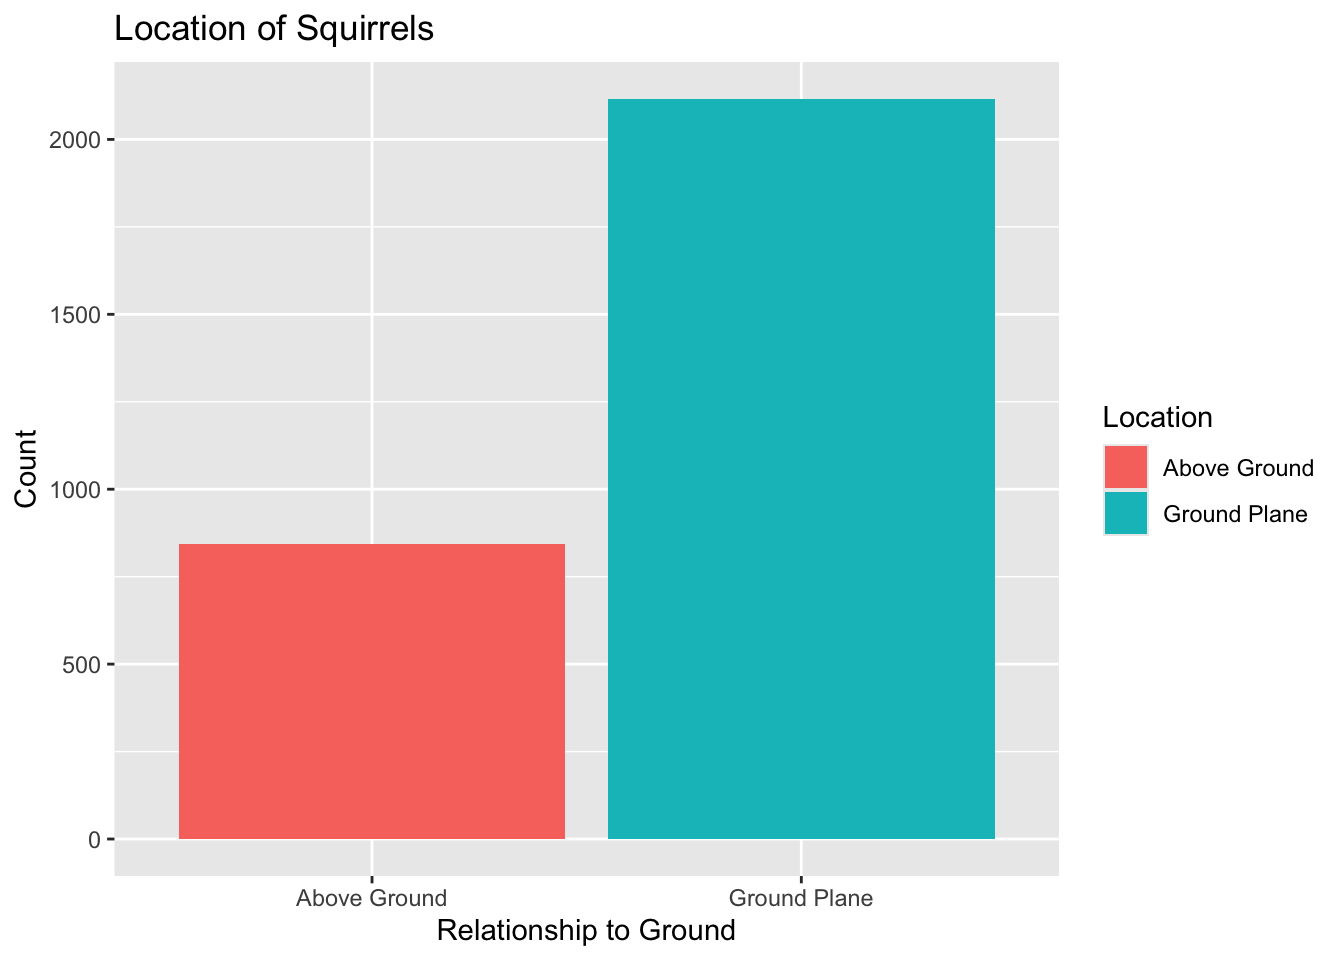
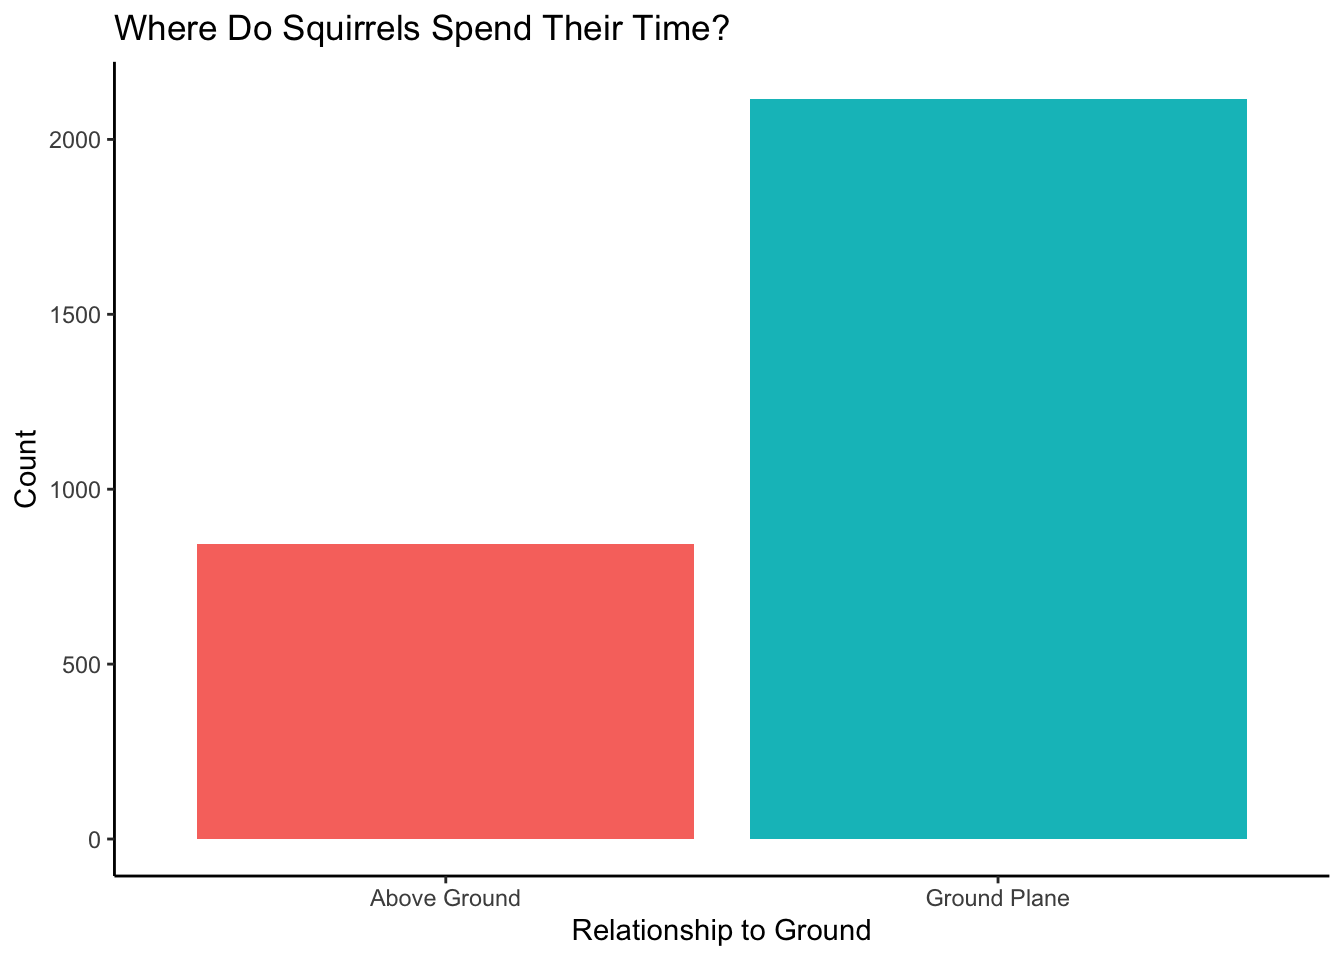
citation?

diff --git a/docs/txtanalysis.html b/docs/txtanalysis.html
@@ -8,7 +8,7 @@
 
 <meta name="author" content="Fox Kloske">
 <meta name="dcterms.date" content="2025-10-08">
-<meta name="description" content="Using str() functions and regular expressions to find out what Central Park squirrels were doing in 2018.">
+<meta name="description" content="Using str() functions and regular expressions to discover what Central Park squirrels were doing in Junuary 2018.">
 
 <title>Central Park Squirrel Census – Fox Kloske</title>
 <style>
@@ -167,7 +167,7 @@ pre > code.sourceCode > span > a:first-child::before { text-decoration: underlin
 </div>
 <div>
   <div class="description">
-    Using str() functions and regular expressions to find out what Central Park squirrels were doing in 2018.
+    Using str() functions and regular expressions to discover what Central Park squirrels were doing in Junuary 2018.
   </div>
 </div>
 <div class="quarto-title-meta column-page">
@@ -195,16 +195,20 @@ pre > code.sourceCode > span > a:first-child::before { text-decoration: underlin
 <span id="cb1-5"><a href="#cb1-5" aria-hidden="true" tabindex="-1"></a></span>
 <span id="cb1-6"><a href="#cb1-6" aria-hidden="true" tabindex="-1"></a>Squirrel1 <span class="ot">&lt;-</span> SquirrelCensus <span class="sc">|&gt;</span></span>
 <span id="cb1-7"><a href="#cb1-7" aria-hidden="true" tabindex="-1"></a>  <span class="fu">group_by</span>(Location) <span class="sc">|&gt;</span></span>
-<span id="cb1-8"><a href="#cb1-8" aria-hidden="true" tabindex="-1"></a>  <span class="co">#na.rm not recognizing empty values, so instead tested if any characters are in the value</span></span>
+<span id="cb1-8"><a href="#cb1-8" aria-hidden="true" tabindex="-1"></a>  <span class="co">#na.rm not recognizing empty values, so instead tested if any characters are in the value.</span></span>
 <span id="cb1-9"><a href="#cb1-9" aria-hidden="true" tabindex="-1"></a>  <span class="fu">filter</span>(<span class="fu">str_detect</span>(Location, <span class="st">"."</span>))</span>
 <span id="cb1-10"><a href="#cb1-10" aria-hidden="true" tabindex="-1"></a></span>
 <span id="cb1-11"><a href="#cb1-11" aria-hidden="true" tabindex="-1"></a><span class="fu">ggplot</span>(Squirrel1, <span class="fu">aes</span>(<span class="at">x =</span> Location, <span class="at">fill =</span> Location)) <span class="sc">+</span></span>
 <span id="cb1-12"><a href="#cb1-12" aria-hidden="true" tabindex="-1"></a>  <span class="fu">geom_bar</span>(<span class="at">na.rm =</span> <span class="cn">TRUE</span>) <span class="sc">+</span></span>
 <span id="cb1-13"><a href="#cb1-13" aria-hidden="true" tabindex="-1"></a>    <span class="fu">labs</span>(</span>
-<span id="cb1-14"><a href="#cb1-14" aria-hidden="true" tabindex="-1"></a>      <span class="at">title =</span> <span class="st">"Location of Squirrels"</span>,</span>
+<span id="cb1-14"><a href="#cb1-14" aria-hidden="true" tabindex="-1"></a>      <span class="at">title =</span> <span class="st">"Where Do Squirrels Spend Their Time?"</span>,</span>
 <span id="cb1-15"><a href="#cb1-15" aria-hidden="true" tabindex="-1"></a>      <span class="at">x =</span> <span class="st">"Relationship to Ground"</span>,</span>
 <span id="cb1-16"><a href="#cb1-16" aria-hidden="true" tabindex="-1"></a>      <span class="at">y =</span> <span class="st">"Count"</span></span>
-<span id="cb1-17"><a href="#cb1-17" aria-hidden="true" tabindex="-1"></a>  )</span></code><button title="Copy to Clipboard" class="code-copy-button"><i class="bi"></i></button></pre></div>
+<span id="cb1-17"><a href="#cb1-17" aria-hidden="true" tabindex="-1"></a>  ) <span class="sc">+</span></span>
+<span id="cb1-18"><a href="#cb1-18" aria-hidden="true" tabindex="-1"></a>  <span class="fu">theme_classic</span>() <span class="sc">+</span></span>
+<span id="cb1-19"><a href="#cb1-19" aria-hidden="true" tabindex="-1"></a></span>
+<span id="cb1-20"><a href="#cb1-20" aria-hidden="true" tabindex="-1"></a><span class="co">#Centered format</span></span>
+<span id="cb1-21"><a href="#cb1-21" aria-hidden="true" tabindex="-1"></a><span class="fu">theme</span>(<span class="at">legend.position =</span> <span class="st">"none"</span>)</span></code><button title="Copy to Clipboard" class="code-copy-button"><i class="bi"></i></button></pre></div>
 </details>
 <div class="cell-output-display">
 <div>
@@ -214,7 +218,7 @@ pre > code.sourceCode > span > a:first-child::before { text-decoration: underlin
 </div>
 </div>
 </div>
-<p>The data set gives some detail about where these acorn-lovers spend their days, but we can do better!</p>
+<p>Most squirrels are spotted on the ground. The built-in columns gives some detail about where these acorn-lovers spend their days, but we can do better!</p>
 <div class="cell">
 <details class="code-fold">
 <summary>Code</summary>
@@ -231,11 +235,12 @@ pre > code.sourceCode > span > a:first-child::before { text-decoration: underlin
 <span id="cb2-11"><a href="#cb2-11" aria-hidden="true" tabindex="-1"></a><span class="fu">ggplot</span>(Squirrel2, <span class="fu">aes</span>(<span class="at">x =</span> Activity, <span class="at">fill =</span> tree_status)) <span class="sc">+</span></span>
 <span id="cb2-12"><a href="#cb2-12" aria-hidden="true" tabindex="-1"></a>  <span class="fu">geom_bar</span>() <span class="sc">+</span></span>
 <span id="cb2-13"><a href="#cb2-13" aria-hidden="true" tabindex="-1"></a>  <span class="fu">labs</span>(</span>
-<span id="cb2-14"><a href="#cb2-14" aria-hidden="true" tabindex="-1"></a>    <span class="at">title =</span> <span class="st">"Daily Squirrel-tivities"</span>,</span>
+<span id="cb2-14"><a href="#cb2-14" aria-hidden="true" tabindex="-1"></a>    <span class="at">title =</span> <span class="st">"What Are Squirrels Doing All Day?"</span>,</span>
 <span id="cb2-15"><a href="#cb2-15" aria-hidden="true" tabindex="-1"></a>    <span class="at">x =</span> <span class="st">"Activity"</span>,</span>
 <span id="cb2-16"><a href="#cb2-16" aria-hidden="true" tabindex="-1"></a>    <span class="at">y =</span> <span class="st">"Count"</span>,</span>
 <span id="cb2-17"><a href="#cb2-17" aria-hidden="true" tabindex="-1"></a>    <span class="at">fill =</span> <span class="st">"On a tree?"</span></span>
-<span id="cb2-18"><a href="#cb2-18" aria-hidden="true" tabindex="-1"></a>  )</span></code><button title="Copy to Clipboard" class="code-copy-button"><i class="bi"></i></button></pre></div>
+<span id="cb2-18"><a href="#cb2-18" aria-hidden="true" tabindex="-1"></a>  ) <span class="sc">+</span></span>
+<span id="cb2-19"><a href="#cb2-19" aria-hidden="true" tabindex="-1"></a>  <span class="fu">theme_classic</span>()</span></code><button title="Copy to Clipboard" class="code-copy-button"><i class="bi"></i></button></pre></div>
 </details>
 <div class="cell-output-display">
 <div>
@@ -244,11 +249,61 @@ pre > code.sourceCode > span > a:first-child::before { text-decoration: underlin
 </figure>
 </div>
 </div>
+<details class="code-fold">
+<summary>Code</summary>
+<div class="sourceCode cell-code" id="cb3"><pre class="sourceCode r code-with-copy"><code class="sourceCode r"><span id="cb3-1"><a href="#cb3-1" aria-hidden="true" tabindex="-1"></a><span class="co">#Complicated way to sneak in more str() &amp; regular expressions</span></span>
+<span id="cb3-2"><a href="#cb3-2" aria-hidden="true" tabindex="-1"></a><span class="co">#str_count() returns line by line, sum returns single value</span></span>
+<span id="cb3-3"><a href="#cb3-3" aria-hidden="true" tabindex="-1"></a><span class="co">#The word street also appears in the dataset, but want to exclude from count of tree</span></span>
+<span id="cb3-4"><a href="#cb3-4" aria-hidden="true" tabindex="-1"></a>tree_count <span class="ot">&lt;-</span> <span class="fu">sum</span>(<span class="fu">str_count</span>(<span class="fu">tolower</span>(SquirrelCensus), <span class="st">"(?&lt;=</span><span class="sc">\\</span><span class="st">s|^)tree"</span>), <span class="at">na.rm =</span> <span class="cn">TRUE</span>)</span>
+<span id="cb3-5"><a href="#cb3-5" aria-hidden="true" tabindex="-1"></a><span class="co">#Number is writen inline with `r tree_count`</span></span></code><button title="Copy to Clipboard" class="code-copy-button"><i class="bi"></i></button></pre></div>
+</details>
 </div>
-<p>Much better! Squirrels spend a tree-mendous amount of time on trees :) Only observations with specific location details are included.</p>
+<p>Much better! The data shows a mix of squirrel-tivities. But most of all, squirrels spend a <em>tree</em>-mendous amount of time on and around trees. For this graph, only observations with specific location details are included. However, there are 254 mentions of tree related shenanagins in the data set! Let’s now get to the <em>nuts</em> and bolts of who they spend their time with.</p>
+<div class="cell">
+<details class="code-fold">
+<summary>Code</summary>
+<div class="sourceCode cell-code" id="cb4"><pre class="sourceCode r code-with-copy"><code class="sourceCode r"><span id="cb4-1"><a href="#cb4-1" aria-hidden="true" tabindex="-1"></a>Squirrel3 <span class="ot">&lt;-</span> SquirrelCensus <span class="sc">|&gt;</span></span>
+<span id="cb4-2"><a href="#cb4-2" aria-hidden="true" tabindex="-1"></a>  <span class="co">#Sometimes the same dog in mentioned twice in interaction</span></span>
+<span id="cb4-3"><a href="#cb4-3" aria-hidden="true" tabindex="-1"></a>  <span class="fu">mutate</span>(<span class="at">num_dogs =</span> <span class="fu">str_count</span>(<span class="fu">tolower</span>(<span class="st">`</span><span class="at">Other Interactions</span><span class="st">`</span>), <span class="st">"(?&lt;!dog)dog"</span>),</span>
+<span id="cb4-4"><a href="#cb4-4" aria-hidden="true" tabindex="-1"></a>         <span class="at">Date =</span> <span class="fu">as.character</span>(Date),</span>
+<span id="cb4-5"><a href="#cb4-5" aria-hidden="true" tabindex="-1"></a>         <span class="at">Day =</span> <span class="fu">str_sub</span>(Date, <span class="dv">3</span>, <span class="dv">4</span>)) <span class="sc">|&gt;</span></span>
+<span id="cb4-6"><a href="#cb4-6" aria-hidden="true" tabindex="-1"></a>  <span class="fu">group_by</span>(Day)</span>
+<span id="cb4-7"><a href="#cb4-7" aria-hidden="true" tabindex="-1"></a></span>
+<span id="cb4-8"><a href="#cb4-8" aria-hidden="true" tabindex="-1"></a><span class="fu">ggplot</span>(Squirrel3, <span class="fu">aes</span>(<span class="at">x =</span> Day, <span class="at">y =</span> num_dogs)) <span class="sc">+</span></span>
+<span id="cb4-9"><a href="#cb4-9" aria-hidden="true" tabindex="-1"></a>  <span class="fu">geom_col</span>(<span class="at">fill =</span> <span class="st">"springgreen4"</span>) <span class="sc">+</span></span>
+<span id="cb4-10"><a href="#cb4-10" aria-hidden="true" tabindex="-1"></a>  <span class="fu">labs</span>(</span>
+<span id="cb4-11"><a href="#cb4-11" aria-hidden="true" tabindex="-1"></a>    <span class="at">title =</span> <span class="st">"Daily Encounters of Squirrels and Dogs"</span>,</span>
+<span id="cb4-12"><a href="#cb4-12" aria-hidden="true" tabindex="-1"></a>    <span class="at">x =</span> <span class="st">"Date"</span>,</span>
+<span id="cb4-13"><a href="#cb4-13" aria-hidden="true" tabindex="-1"></a>    <span class="at">y =</span> <span class="st">"Count"</span>,</span>
+<span id="cb4-14"><a href="#cb4-14" aria-hidden="true" tabindex="-1"></a>  ) <span class="sc">+</span></span>
+<span id="cb4-15"><a href="#cb4-15" aria-hidden="true" tabindex="-1"></a>  <span class="fu">theme_classic</span>()</span></code><button title="Copy to Clipboard" class="code-copy-button"><i class="bi"></i></button></pre></div>
+</details>
+<div class="cell-output-display">
+<div>
+<figure class="figure">
+<p><img src="txtanalysis_files/figure-html/unnamed-chunk-3-1.png" class="img-fluid figure-img" width="672"></p>
+</figure>
+</div>
+</div>
+<details class="code-fold">
+<summary>Code</summary>
+<div class="sourceCode cell-code" id="cb5"><pre class="sourceCode r code-with-copy"><code class="sourceCode r"><span id="cb5-1"><a href="#cb5-1" aria-hidden="true" tabindex="-1"></a>chase_count <span class="ot">&lt;-</span> <span class="fu">sum</span>(<span class="fu">str_count</span>(<span class="fu">tolower</span>(SquirrelCensus), <span class="st">"nut|acorn"</span>), <span class="at">na.rm =</span> <span class="cn">TRUE</span>)</span></code><button title="Copy to Clipboard" class="code-copy-button"><i class="bi"></i></button></pre></div>
+</details>
+</div>
+<p>Dogs! These poor squirrels spend their time in Central Park running from dogs! Data is taken over the month of January 2018, but not every day is captured, creating this funky x-axis. And, to make matters worse only observations 43 mention food!</p>
+<p>Thanks for tagging along on this journey to understand the busy social lives of our furry neighbors! To find out more for yourself about these squirrels, visit NYC OpenData or theSquirrelCensus.com</p>
 
 
-</main>  
+</main> 
+  <hr class="about-sep">
+   <div class="about-links">
+  <a href="https://data.cityofnewyork.us/Environment/2018-Central-Park-Squirrel-Census      -Squirrel-Data/vfnx-vebw/about_data" class="about-link" rel="" target="">
+     <span class="about-link-text">NYC OpenData</span>
+  </a>
+  <a href="https://www.thesquirrelcensus.com/" class="about-link" rel="" target="">
+     <span class="about-link-text">The Squirrel Census</span>
+  </a>
+</div>
 </div>
  <!-- /main -->
 <script id="quarto-html-after-body" type="application/javascript">
